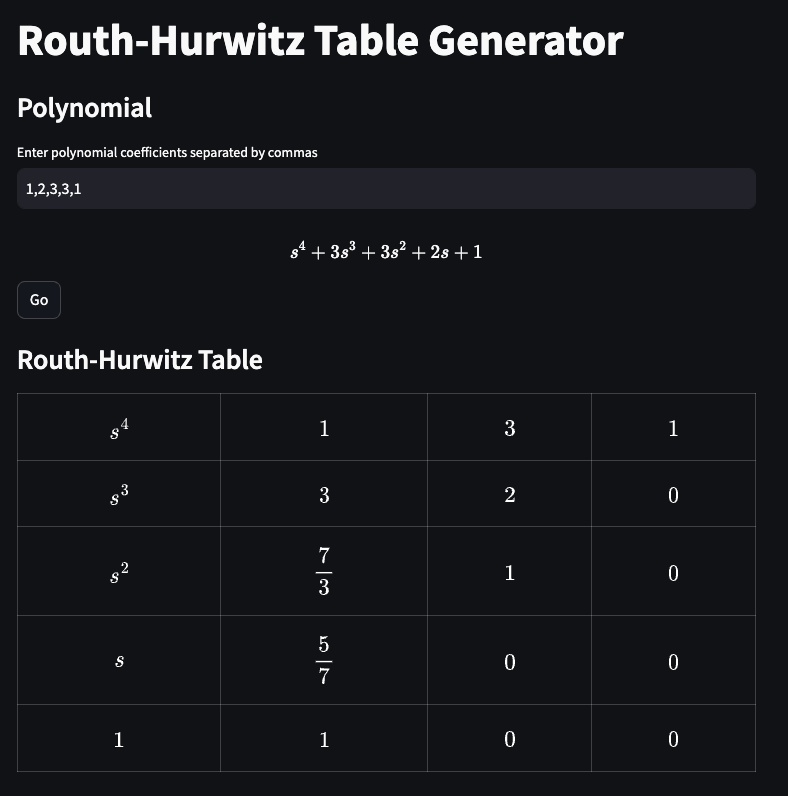
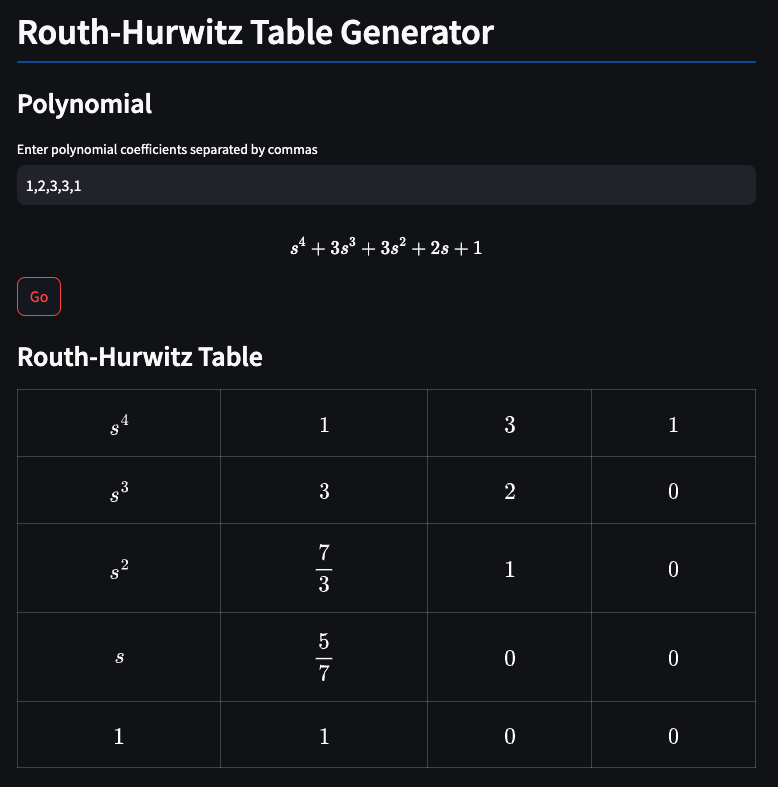
update header to improve seo

diff --git a/app.py b/app.py
@@ -15,7 +15,7 @@ st.set_page_config(
 _, col1, _, col2, _ = st.columns([1, 3, 1, 1, 1])
 
 with col1:
-    st.write('# Routh-Hurwitz Table Generator')
+    st.header('Routh-Hurwitz Table Generator', divider=True)
     st.write('### Polynomial')
 
     polynomial_coeffs = st.text_input(
